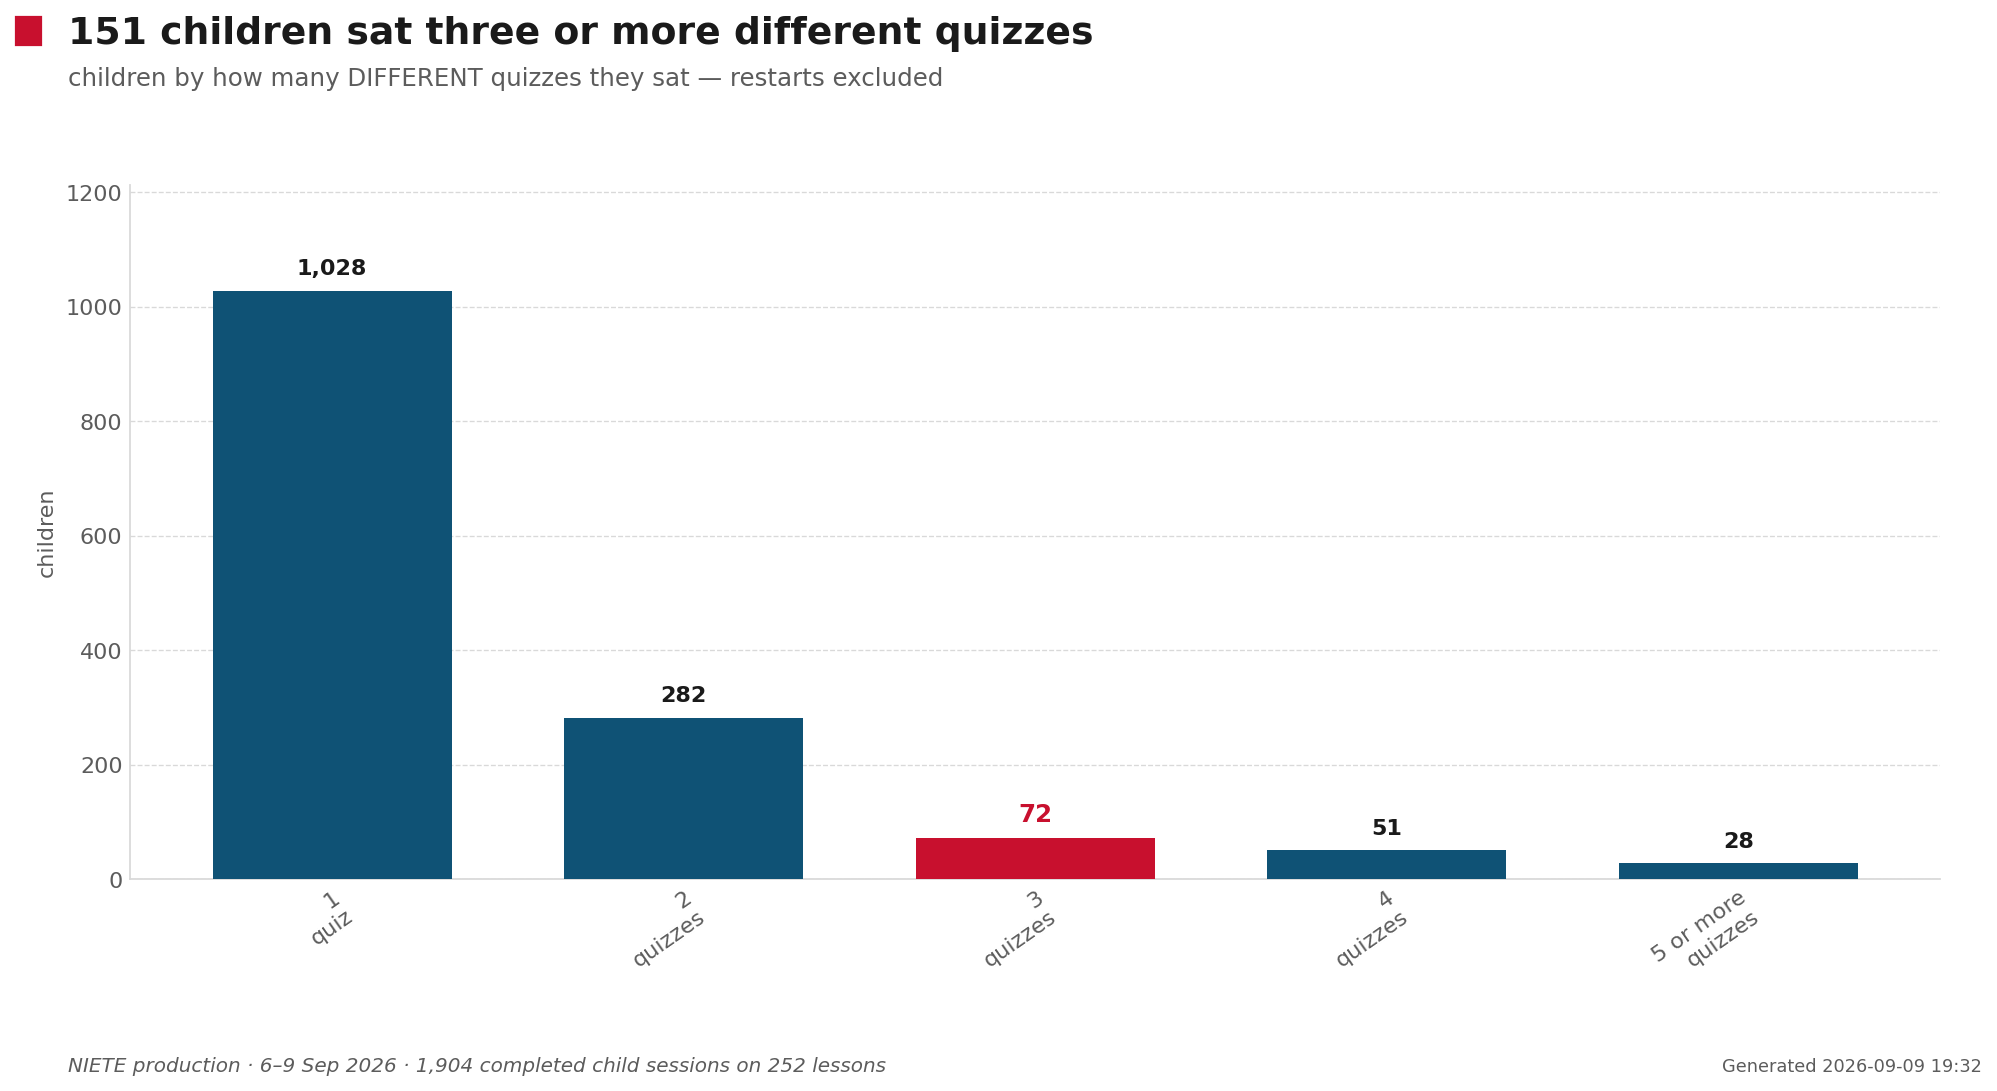
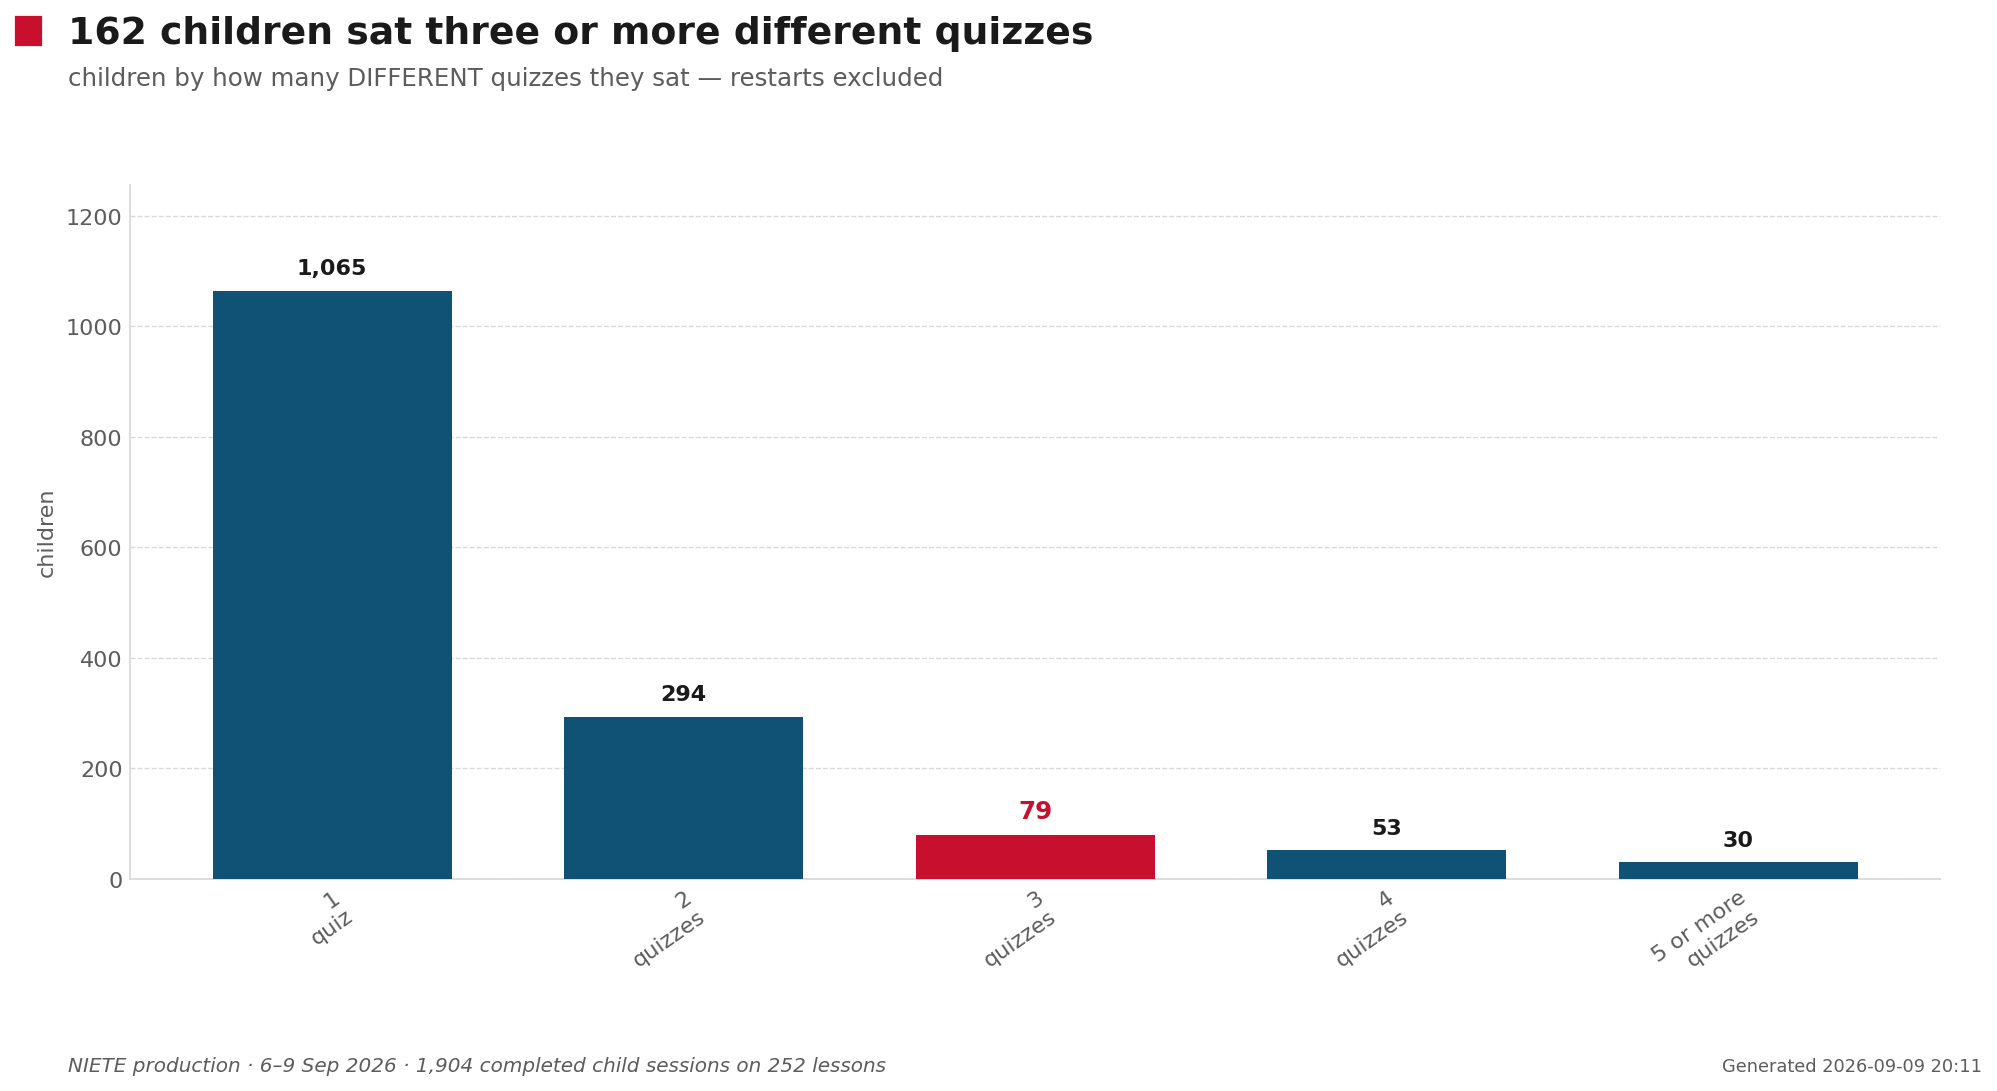
report: correct the friend-loop numbers
The database records 299 sittings as arriving through an invite; 280 of
them name the joining child as their own inviter, because re-opening the
link you minted matches you back to your own record. The honest figure is
19 sittings from 6 children. The offer is real and unchanged: 2,169 saw
it, 516 tapped yes. The page now says so, and the chart is redrawn.

diff --git a/reports/slo-mastery-2026-09-07/index.html b/reports/slo-mastery-2026-09-07/index.html
@@ -121,7 +121,7 @@ footer{border-top:1px solid var(--rule);padding-top:20px;color:var(--ink-3);font
     read the transcript back, listed the objectives the lesson actually covered, and asked the children
     about those — not about a syllabus. Then the children did something nobody had asked them to.</p>
   <p class="pop"><span><b>536</b> quizzes sent to teachers</span><span><b>278</b> reached a child</span>
-    <span><b>1,904</b> finished all eight questions</span><span><b>1,461</b> children in all</span><span>6–9 September 2026</span></p>
+    <span><b>1,904</b> finished all eight questions</span><span><b>1,521</b> children in all</span><span>6–9 September 2026</span></p>
 </header>
 
 <section>
@@ -138,17 +138,17 @@ footer{border-top:1px solid var(--rule);padding-top:20px;color:var(--ink-3);font
 <section>
   <p class="turn">The quiz the teacher sent turned out to be the beginning, not the end.</p>
   <p class="prose">When a child finishes, the assistant asks whether they want another. Nobody expected much of that offer.
-    <b>Of the 552 children who saw it and answered, 258 said yes</b> — 47%.
+    <b>Of the 584 children who saw it and answered, 272 said yes</b> — 47%.
     And the offer is the smaller half of it: children also came back on their own, through links their teacher had sent days
     before, or that a friend had forwarded.</p>
   <div class="stats">
-    <div class="stat"><b>381</b><span>quizzes children chose for themselves, beyond the one their teacher sent</span></div>
-    <div class="stat"><b>220</b><span>of those finished to the last question — 58%, against 69% on the quizzes teachers sent; a library quiz is roughly twice as long</span></div>
-    <div class="stat"><b>151</b><span>children did three or more different quizzes in four days</span></div>
+    <div class="stat"><b>397</b><span>quizzes children chose for themselves, beyond the one their teacher sent</span></div>
+    <div class="stat"><b>247</b><span>of those finished to the last question — 62%, against 69% on the quizzes teachers sent; a library quiz is roughly twice as long</span></div>
+    <div class="stat"><b>162</b><span>children did three or more different quizzes in four days</span></div>
     <div class="stat"><b>9</b><span>the deepest run — nine different quizzes across five subjects</span></div>
   </div>
   <figure class="chart"><img src="charts/10_depth_distinct.png" alt="Distinct quizzes per child" loading="lazy"></figure>
-  <p class="prose">This counts <em>different</em> quizzes. Children also restarted quizzes they had already begun — 1,094 times
+  <p class="prose">This counts <em>different</em> quizzes. Children also restarted quizzes they had already begun — 1,168 times
     across four days — which is a separate story, part enthusiasm and part a rate-limit stall that has since been fixed. It is left
     out of every number above so that "went deeper" never means "tapped the same link twice".</p>
 </section>
@@ -251,24 +251,30 @@ footer{border-top:1px solid var(--rule);padding-top:20px;color:var(--ink-3);font
 
 <section>
   <h2>Left to themselves, what do they pick?</h2>
-  <p class="prose">Of the 381 quizzes children chose on their own, maths now leads, then English and Urdu —
+  <p class="prose">Of the 397 quizzes children chose on their own, maths now leads, then English and Urdu —
     English led on day two and maths has overtaken it since. They do not stay in their lesson, and they do not stay in their year:
-    24 sittings were on grade 6–8 material, 37 on grades 1–2. They reach up and down.</p>
+    25 sittings were on grade 6–8 material, 39 on grades 1–2. They reach up and down.</p>
   <figure class="chart"><img src="charts/11_self_chosen_subjects.png" alt="Subjects children chose on their own" loading="lazy"></figure>
 </section>
 
 <section>
   <h2>Send it to a friend</h2>
   <p class="prose">After the scorecard, one question: <em>Want to send this quiz to a friend? I'll tell you how they did once they
-    finish.</em> Over four days, 2,036 children saw it. <b>491 forwarded it</b>, 24%.
-    200 friends actually opened the link, and 132 of them — two in three — finished the whole quiz.
-    174 times, the result went back to the child who sent it.</p>
+    finish.</em> Over four days, 2,169 children saw it and <b>516 tapped yes</b> —
+    24%. Children want to send it. What we cannot yet show is anyone arriving.</p>
+  <div class="callout"><p><b>This is the one number on this page that was wrong, and it is worth saying plainly.</b>
+    An earlier version of this page reported friends arriving in the hundreds. They did not.
+    Of the 299 sittings the database records as arriving through an invite, <b>280 name the joining
+    child as their own inviter</b> — a child re-opened the link they had just minted, and the join matched them
+    back to their own record. Strip those and the honest figure is <b>19 sittings from
+    6 children</b>, each with a different name and a different handset from whoever invited them;
+    5 finished. The offer works. The loop, so far, does not.</p></div>
   <figure class="chart"><img src="charts/12_friend_loop.png" alt="The invite loop" loading="lazy"></figure>
   <p class="prose">This is the message that goes back. It is the production string with real numbers from one pair of children;
     the names are changed.</p>
   <div class="duo">
-    <div><div class="bubble-solo"><div class="msg in"><p>🎯 <b>Hamza finished your quiz!</b><br><br>Hamza: <b>14/15</b><br>You: <b>13/15</b><br><br>Hamza edged you this time — worth another go.</p><span class="ts">8:14 pm</span></div></div><p class="cap">Adding and Subtracting Fractions — the friend edged the inviter.</p></div>
-    <div><div class="bubble-solo"><div class="msg in"><p>🎯 <b>Areeba finished your quiz!</b><br><br>Areeba: <b>8/8</b><br>You: <b>8/8</b><br><br>A dead heat — you both got the same.</p><span class="ts">8:14 pm</span></div></div><p class="cap">Types of Nouns — a dead heat. 64 of the 97 pairs where both children finished the same quiz tied.</p></div>
+    <div><div class="bubble-solo"><div class="msg in"><p>🎯 <b>Hamza finished your quiz!</b><br><br>Hamza: <b>8/8</b><br>You: <b>7/8</b><br><br>Hamza edged you this time — worth another go.</p><span class="ts">8:14 pm</span></div></div><p class="cap">Map Skills and Globe — the friend edged the inviter.</p></div>
+    <div><div class="bubble-solo"><div class="msg in"><p>🎯 <b>Areeba finished your quiz!</b><br><br>Areeba: <b>8/8</b><br>You: <b>8/8</b><br><br>A dead heat — you both got the same.</p><span class="ts">8:14 pm</span></div></div><p class="cap"><span class="ur">حروف جار اور حروف عطف</span> — a dead heat. 3 of the 5 genuine pairs where both children finished the same quiz tied.</p></div>
   </div>
   <div class="callout"><p><b>One thing to fix.</b> That message is English regardless of the quiz's language — an Urdu-speaking
     child who sends an Urdu quiz to a friend hears back in English. It bypasses the string catalogue. Small, and worth doing.</p></div>
@@ -301,12 +307,12 @@ footer{border-top:1px solid var(--rule);padding-top:20px;color:var(--ink-3);font
 
 <section>
   <div class="caveats"><h3>How much weight this carries</h3><ul>
-    <li><strong>Four days, 1,904 finished quizzes, 1,461 children.</strong> The headline ran 78.8% → 77.9% → 75.9%
+    <li><strong>Four days, 1,904 finished quizzes, 1,521 children.</strong> The headline ran 78.8% → 77.9% → 75.9%
       as the sample grew from a hundred children to fourteen hundred; the cuts beneath it are less settled, and one of them already washed out.</li>
     <li><strong>The children are self-selected.</strong> They are the ones whose parents opened a WhatsApp link. 278 of
       536 quizzes ever reached a child — the biggest loss in the whole chain, and it sits after everything that has been fixed.</li>
     <li><strong>Nobody was watching them answer.</strong> A quiz done at home can be done with help — which is also, sometimes, the point.</li>
-    <li><strong>Depth counts different quizzes only.</strong> The 1,094 restarts are excluded throughout.</li>
+    <li><strong>Depth counts different quizzes only.</strong> The 1,168 restarts are excluded throughout.</li>
     <li><strong>Zara is real; her name is not.</strong> No child's name, class or number appears on this page.</li>
   </ul></div>
 </section>
